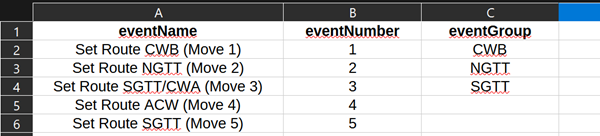
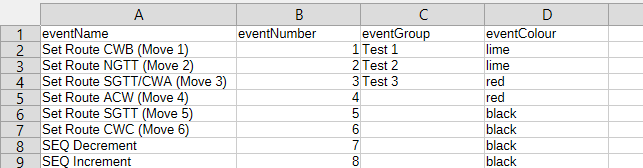
updated importDialog spreadsheet info

diff --git a/src/components/dialogs/ImportDialog.vue b/src/components/dialogs/ImportDialog.vue
@@ -77,13 +77,17 @@
       </q-banner>
 
       <q-card style="max-height: 85vh" class="scroll no-margin q-py-none">
+        <!-- screenshots taken from INFORMATION_export_2026-03-02.ods export -->
         <q-card-section>
           <div class="text-subtitle2">
             The import will accept most spreadsheet types, such as xls, xlsx & ods, but NOT csv
-            (which strictly isn't a spreadsheet format anyway)
+            (which strictly isn't a spreadsheet format anyway).
           </div>
           <div class="text-subtitle2">
-            The information for long events is expected to be on a sheet named 'Long_Events'
+            Note the 'eventColour' column is optional for both long & short events, and defaults to black.
+          </div>
+          <div class="text-subtitle2">
+            The information for long events is expected to be on a sheet named 'Long_Events'.
           </div>
           <div>
             <q-img
@@ -94,7 +98,7 @@
           </div>
           <br>
           <div class="text-subtitle2">
-            The information for short events is expected to be on a sheet named 'Short_Events', and doesn't need the 'EventNodeNumber' column
+            The information for short events is expected to be on a sheet named 'Short_Events', and doesn't need the 'EventNodeNumber' column.
           </div>
           <div>
             <q-img
@@ -106,7 +110,8 @@
           <br>
           <div class="text-subtitle2">
             The node information is expected to be on a sheet named 'Nodes'.<br>
-            'moduleName' is optional, and will be updated when the node connects anyway, but useful if the node isn't connected.
+            The 'nodeColour' column is optional, and will default to black.<br>
+            The 'moduleName' column is optional, and will be updated when the node connects anyway, but useful if the node isn't connected.
           </div>
           <div>
             <q-img
